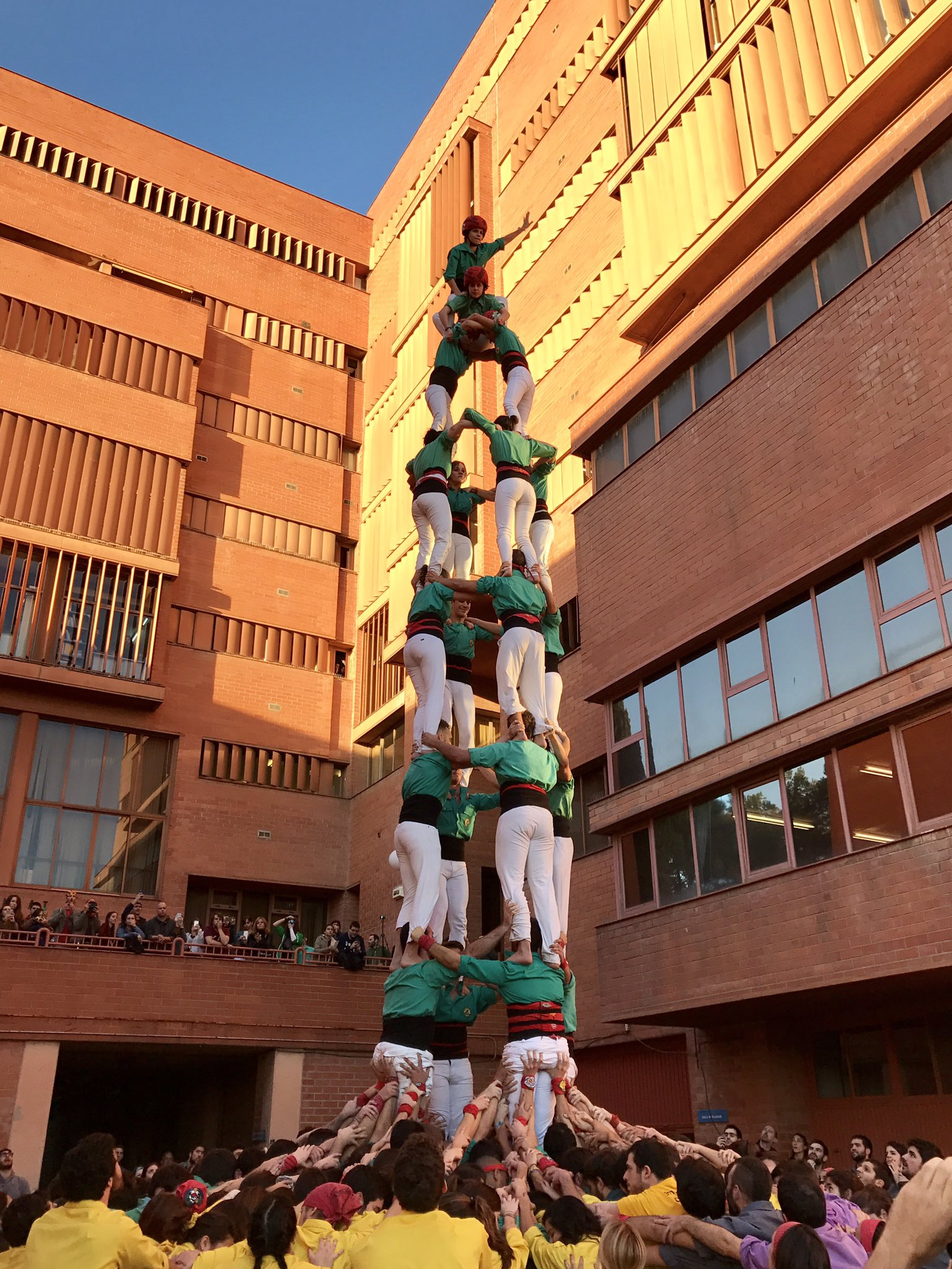
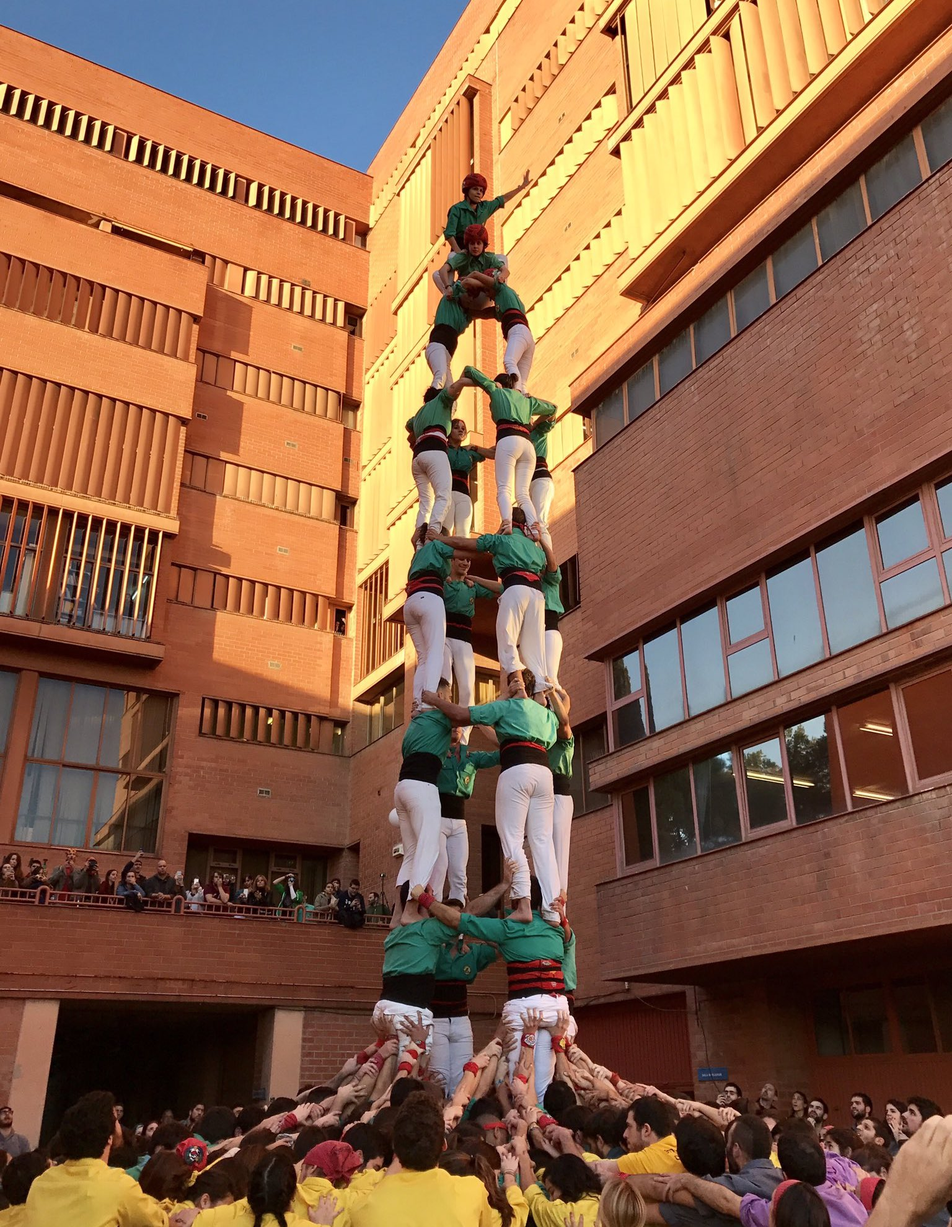
Add gallery

diff --git a/src/css/main.css b/src/css/main.css
@@ -916,7 +916,7 @@ Castell Top
 	margin: 0 20px 10px 0;
 }
 
-@media screen and (max-width: 600px) {
+@media screen and (max-width: 800px) {
 	.top-img {
 		max-width: unset;
 		max-height: unset;
@@ -2495,6 +2495,133 @@ En construcció
 	text-transform: uppercase;
 	font-size: 1rem;
 	color: var(--primary-600);
+}
+
+/*
+=============== 
+Slideshow
+===============
+*/
+
+.slideshow-container {
+	width: 100%;
+	margin-bottom: 10px;
+	user-select: none;
+}
+
+.slideshow {
+	width: 100%;
+	position: relative;
+	overflow: hidden;
+}
+
+.prev,
+.next {
+	position: absolute;
+	top: 0;
+	bottom: 0;
+	left: 8px;
+	margin: auto 0 !important;
+	height: 35px;
+	width: 35px;
+	line-height: 35px;
+	text-align: center;
+	color: white;
+	font-size: 18px;
+	transition: 0.6s ease;
+	border-radius: 50%;
+	cursor: pointer;
+	display: none;
+	background-color: rgba(0, 0, 0, 0.5);
+}
+.slideshow:hover .prev,
+.slideshow:hover .next {
+	display: block;
+}
+.next {
+	left: unset;
+	right: 8px;
+}
+.prev:hover,
+.next:hover {
+	background-color: rgba(0, 0, 0, 0.8);
+}
+
+.slide {
+	display: none;
+}
+
+.slide .counter {
+	position: absolute;
+	top: 8px;
+	left: 8px;
+	color: var(--white);
+	font-size: 0.7rem;
+	display: none;
+	background-color: rgba(0, 0, 0, 0.5);
+	padding: 2px 10px;
+	border-radius: 9999px;
+}
+.slideshow:hover .counter {
+	display: block;
+}
+
+.slide .slide-img {
+	vertical-align: middle;
+	object-fit: cover;
+	width: 100%;
+	aspect-ratio: 0.75;
+}
+
+.slide .caption {
+	position: absolute;
+	bottom: 0;
+	transform: translateY(100%);
+	color: var(--white);
+	font-size: 1rem;
+	padding: 8px 12px;
+	width: 100%;
+	background-color: rgba(0, 0, 0, 0.5);
+	text-align: center;
+	user-select: text !important;
+	transition: var(--transition);
+}
+.slideshow:hover .caption {
+	transform: translateY(0%);
+}
+
+.slid-dot-container {
+	text-align: center;
+	margin-top: 1rem;
+}
+
+.dot {
+	cursor: pointer;
+	height: 10px;
+	width: 10px;
+	margin: 0 3px;
+	color: var(--grey-200);
+	background-color: var(--grey-200);
+	border-radius: 50%;
+	display: inline-block;
+	transition: background-color 0.6s ease;
+	font-size: 0.7rem;
+	line-height: 3.5;
+}
+
+.dot.active,
+.dot:hover {
+	color: var(--grey-500);
+	background-color: var(--grey-500);
+}
+
+@media screen and (min-width: 900px) {
+	.slideshow-container {
+		width: 50%;
+		max-width: 20vw;
+		float: left;
+		margin: 0 20px 0 0;
+	}
 }
 
 /*

diff --git a/src/pages/Castell.js b/src/pages/Castell.js
@@ -8,6 +8,38 @@ function withParams(Component) {
 }
 
 class Castell extends Component {
+	constructor(props) {
+		super(props);
+		this.state = {
+			slide: 1
+		};
+	}
+	plusSlides(n) {
+		let slides = document.getElementsByClassName('slide');
+		let new_n = this.state.slide + n;
+		if (new_n > slides.length) new_n = 1;
+		if (new_n < 1) new_n = slides.length;
+		this.setState({
+			slide: new_n
+		}, this.showSlide);
+	}
+	currentSlide(n) {
+		this.setState({
+			slide: n
+		}, this.showSlide);
+	}
+	showSlide() {
+		let slides = document.getElementsByClassName('slide');
+		let dots = document.getElementsByClassName('dot');
+
+		for (let i = 0; i < slides.length; i++)
+			slides[i].style.display = 'none';
+		for (let i = 0; i < dots.length; i++)
+			dots[i].className = dots[i].className.replace(' active', '');
+
+		slides[this.state.slide-1].style.display = 'block';
+		dots[this.state.slide-1].className += ' active';
+	}
 	render() {
 		const { castell } = this.props.params;
 		const data = castells_map[castell];
@@ -18,7 +50,30 @@ class Castell extends Component {
 		return (<>
 			<section>
 				<h2>{data.name}</h2>
-				<img className="top-img" src={data.link} alt={data.name} />
+				{data.gallery ? <>
+				<div id="slideshow" className="slideshow-container">
+					<div className="slideshow">
+						{
+							data.gallery.map((e, i) => {
+								return (<div key={i} className="slide" style={{display: i === 0 ? 'block' : 'none'}}>
+									<div className="counter">{i+1} / {data.gallery.length}</div>
+									<img className="slide-img" src={e.link} alt={data.name} />
+									<div className="caption">{e.caption}</div>
+								</div>);
+							})
+						}
+						<span className="prev" onClick={() => this.plusSlides(-1)}>❮</span>
+						<span className="next" onClick={() => this.plusSlides(1)}>❯</span>
+					</div>
+					<div className="slid-dot-container">
+						{
+							data.gallery.map((_, i) => {
+								return <span key={i} className={`dot ${i === 0 ? ' active' : ''}`} onClick={() => this.currentSlide(i+1)}>{i+1}</span>;
+							})
+						}
+					</div>
+				</div></>
+				: <img className="top-img" src={data.link} alt={data.name} />}
 				{
 					data.text.map((e, i) => {
 						return <p key={i}>{e}</p>;

diff --git a/src/components/WordSearch.js b/src/components/WordSearch.js
@@ -5,7 +5,7 @@ let cell = null;
 class WordSearch extends Component {
 	constructor(props) {
 		super(props);
-		this.handleMouseMove=this.handleMouseMove.bind(this);
+		this.handleMouseMove = this.handleMouseMove.bind(this);
 	}
 	selectLetter(i, j) {
 		document.getElementById(`selector${this.props.map_id}`).classList.toggle('show');
